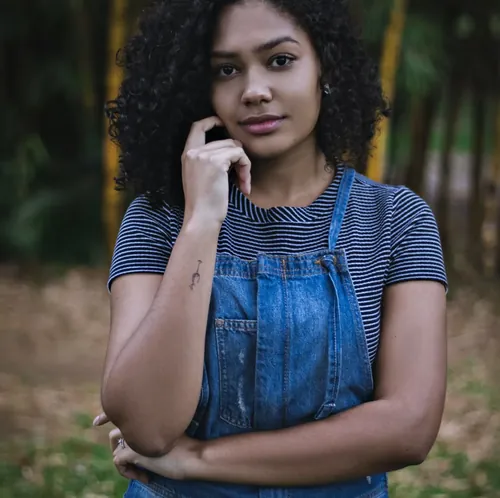
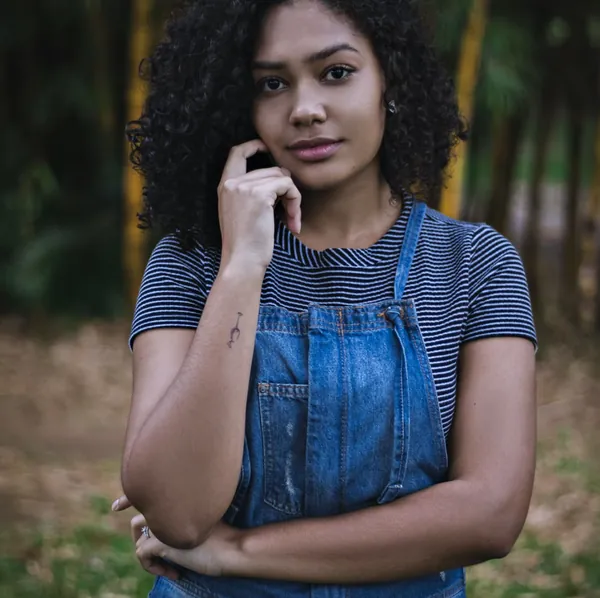
performances : ajout des attributs alt, width et height sur toutes les images + redimensions de certaines img que je n'avais pas correctement dimensioné

diff --git a/index.html b/index.html
@@ -22,7 +22,7 @@
 			<li><a href="#gallery">Galerie</a></li>
 			<li><a href="#services">Service</a></li>
 			<li><a href="#contact">Contact</a></li>
-			<li><a class="social-link" href="https://www.instagram.com/ninacarducci.photo/?hl=fr" target="_blank"><img src="assets/images/instagram.webp" alt=""></a></li>
+			<li><a class="social-link" href="https://www.instagram.com/ninacarducci.photo/?hl=fr" target="_blank"><img src="./assets/images/instagram.webp" alt="Logo Instagram" width="20" height="20"></a></li>
 		</ul>
 	</div>
 </div>
@@ -36,13 +36,13 @@
 		</div>
 		<div class="carousel-inner">
 			<div class="carousel-item active">
-				<img src="./assets/images/slider/ryoji-iwata-wUZjnOv7t0g-unsplash.webp" class="d-block w-100" alt="...">
+				<img src="./assets/images/slider/ryoji-iwata-wUZjnOv7t0g-unsplash.webp" class="d-block w-100" alt="Un homme en costume traversant un passage piéton" width="1920" height="888">
 			</div>
 			<div class="carousel-item">
-				<img src="./assets/images/slider/nicholas-green-nPz8akkUmDI-unsplash.webp" class="d-block w-100" alt="...">
+				<img src="./assets/images/slider/nicholas-green-nPz8akkUmDI-unsplash.webp" class="d-block w-100" alt="Une foule en liesse lors d'un concert" width="1920" height="888">
 			</div>
 			<div class="carousel-item">
-				<img src="./assets/images/slider/edward-cisneros-3_h6-1NPDGw-unsplash.webp" class="d-block w-100" alt="...">
+				<img src="./assets/images/slider/edward-cisneros-3_h6-1NPDGw-unsplash.webp" class="d-block w-100" alt="Un couple s'embrassant lors de leur mariage" width="1920" height="888">
 			</div>
 		</div>
 		<button class="carousel-control-prev" type="button" data-bs-target="#carouselExampleIndicators" data-bs-slide="prev">
@@ -57,7 +57,7 @@
 </div>
 <div id="about">
 	<div class="picture left">
-		<img src="./assets/images/nina.webp">
+		<img src="./assets/images/nina.webp" alt="Portrait de Nina Carducci, photographe" width="560" height="558">
 	</div>
 	<div id="about-me">
 		<h3 class="about-me__title">A propos de moi</h3>
@@ -70,15 +70,15 @@
 	<h3 class="title">Portfolio</h3>
 	<div class="container py-3">
 		<div class="gallery" style="display: none">
-			<img data-gallery-tag="Concert" class="gallery-item" src="./assets/images/gallery/concerts/aaron-paul-wnX-fXzB6Cw-unsplash.webp"/>
-			<img data-gallery-tag="Entreprises" class="gallery-item" src="./assets/images/gallery/entreprise/ali-morshedlou-WMD64tMfc4k-unsplash.webp"/>
-			<img data-gallery-tag="Entreprises" class="gallery-item" src="./assets/images/gallery/entreprise/jason-goodman-tHO1_OuKbg0-unsplash.webp"/>
-			<img data-gallery-tag="Mariages" class="gallery-item" src="./assets/images/gallery/mariage/hannah-busing-RvF2R_qMpRk-unsplash.webp"/>
-			<img data-gallery-tag="Portrait" class="gallery-item" src="./assets/images/gallery/portraits/ade-tunji-rVkhWWZFAtQ-unsplash.webp"/>
-			<img data-gallery-tag="Mariages" class="gallery-item" src="./assets/images/gallery/mariage/jakob-owens-SiniLJkXhMc-unsplash.webp"/>
-			<img data-gallery-tag="Portrait" class="gallery-item" src="./assets/images/gallery/portraits/nino-van-prattenburg--443cl1uR_8-unsplash.webp"/>
-			<img data-gallery-tag="Concert" class="gallery-item" src="./assets/images/gallery/concerts/austin-neill-hgO1wFPXl3I-unsplash.webp"/>
-			<img data-gallery-tag="Entreprises" class="gallery-item" src="./assets/images/gallery/entreprise/mateus-campos-felipe-Fsgzm8N0hIY-unsplash.webp"/>
+			<img data-gallery-tag="Concert" class="gallery-item" src="./assets/images/gallery/concerts/aaron-paul-wnX-fXzB6Cw-unsplash.webp" alt="Salle de concert avec lumières rouges et foule en liesse" width="450" height="450"/>
+			<img data-gallery-tag="Entreprises" class="gallery-item" src="./assets/images/gallery/entreprise/ali-morshedlou-WMD64tMfc4k-unsplash.webp" alt="Portrait d'un homme en costume les bras croisés" width="450" height="450"/>
+			<img data-gallery-tag="Entreprises" class="gallery-item" src="./assets/images/gallery/entreprise/jason-goodman-tHO1_OuKbg0-unsplash.webp" alt="Femme souriante lors d'une réunion en open space" width="450" height="450"/>
+			<img data-gallery-tag="Mariages" class="gallery-item" src="./assets/images/gallery/mariage/hannah-busing-RvF2R_qMpRk-unsplash.webp" alt="Deux mains qui se touchent avec une bague de fiançailles" width="450" height="450"/>
+			<img data-gallery-tag="Portrait" class="gallery-item" src="./assets/images/gallery/portraits/ade-tunji-rVkhWWZFAtQ-unsplash.webp" alt="Portrait d'un homme les yeux fermés en plein soleil" width="450" height="450"/>
+			<img data-gallery-tag="Mariages" class="gallery-item" src="./assets/images/gallery/mariage/jakob-owens-SiniLJkXhMc-unsplash.webp" alt="Un couple de mariés marchant et riant devant des palmiers" width="450" height="450"/>
+			<img data-gallery-tag="Portrait" class="gallery-item" src="./assets/images/gallery/portraits/nino-van-prattenburg--443cl1uR_8-unsplash.webp" alt="Portrait d'une jeune femme à lunettes en extérieur" width="450" height="450"/>
+			<img data-gallery-tag="Concert" class="gallery-item" src="./assets/images/gallery/concerts/austin-neill-hgO1wFPXl3I-unsplash.webp" alt="Chanteur sur scène levant le bras avec un micro" width="450" height="450"/>
+			<img data-gallery-tag="Entreprises" class="gallery-item" src="./assets/images/gallery/entreprise/mateus-campos-felipe-Fsgzm8N0hIY-unsplash.webp" alt="Femme qui rit devant son ordinateur portable" width="450" height="450"/>
 		</div>
 	</div>
 	<div class="quote">
@@ -150,7 +150,7 @@
 			</form>
 		</div>
 		<div class="picture right">
-			<img src="./assets/images/camera.webp">
+			<img src="./assets/images/camera.webp" alt="Appareil photo reflex" width="418" height="418">
 		</div>
 	</div>
 </div>

diff --git a/assets/style.css b/assets/style.css
@@ -69,7 +69,7 @@ body {
 
 .picture img {
 	width: 100%;
-
+	height: auto; /*ajout pour que l'image de Nina garde des dimensions correct avec l'ajout de la heights en HTML*/
 }
 #about-me {
 	flex: 2
@@ -244,6 +244,10 @@ form textarea {
 input[type="submit"] {
 	background-color: #BEB45A;
 	padding: .5em 1em
+}
+
+.carousel-item img {
+    height: auto; /*ajout pour que les sliders garde des dimensions correct avec l'ajout des heights en HTML*/
 }
 
 @media all and (max-width: 1180px) {

diff --git a/optimize_images.py b/optimize_images.py
@@ -23,7 +23,7 @@ EXTENSIONS = (".jpg", ".jpeg", ".png", ".webp")  # Extensions à traiter
 
 # Largeur max par dossier (hauteur calculée automatiquement pour garder les proportions)
 MAX_WIDTHS = {
-    "slider":     1600,
+    "slider":     2000,
     "gallery":     900,
     "portraits":   900,
     "concerts":    900,
@@ -34,8 +34,8 @@ MAX_WIDTHS = {
 
 # Largeur max pour les images à la racine (nina.png, camera.png, instagram.png)
 ROOT_IMAGES = {
-    "nina":       500,
-    "camera":     400,
+    "nina":       600,
+    "camera":     500,
     "instagram":   40,
 }
 # ───────────────────────────────────────────────────────────────────────────────
